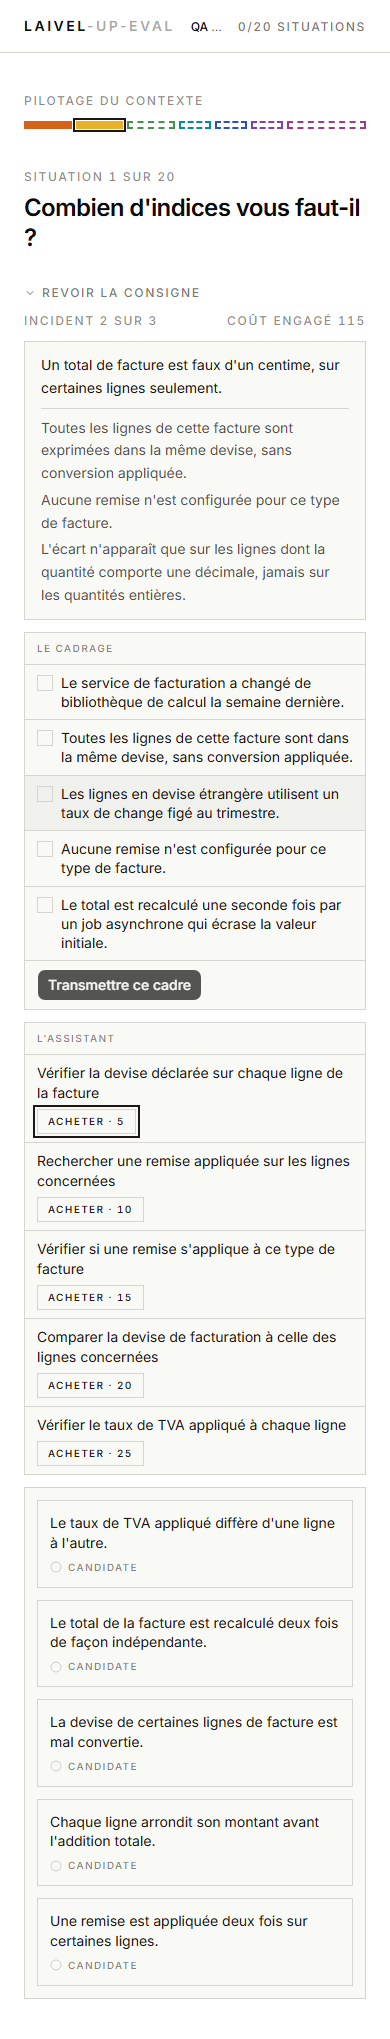
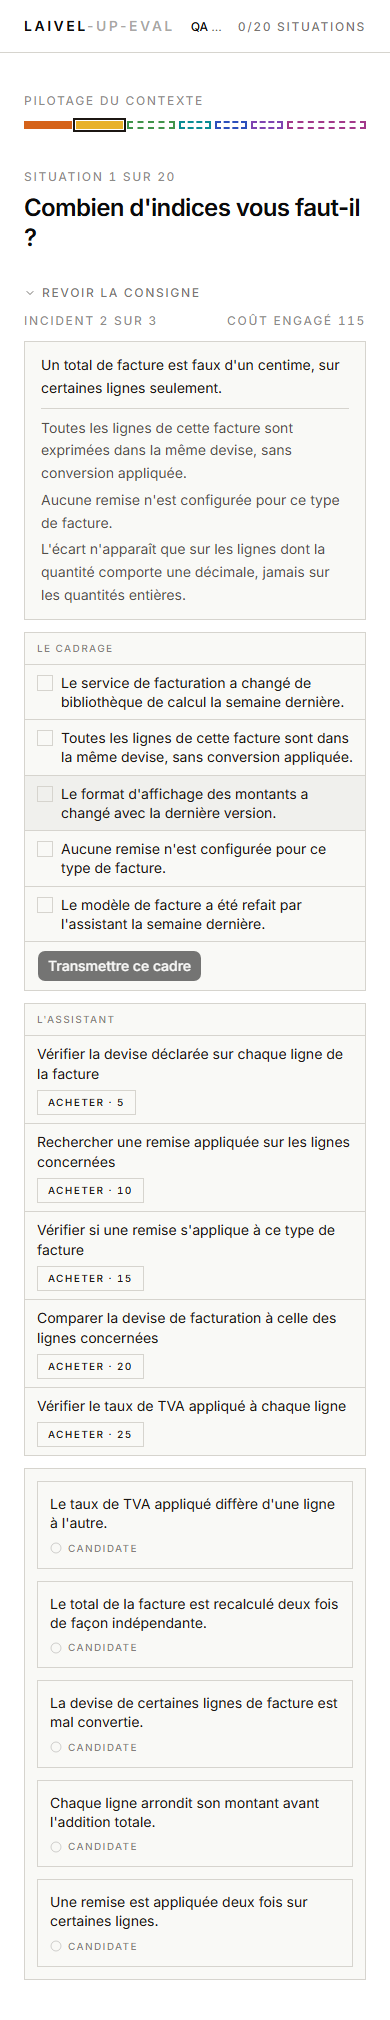
docs(games): redo hint-budget's browser tour after the sixth framing rewrite
ec18346 rewrote six framing suppositions and added framing.refersTo to close
the round-5 floor gap. The rewrite changes the cadrage panel's own height at
both breakpoints, aging out every position and document-height number the
previous tour recorded.

Replayed on a dedicated port (5205, never 5173), same method as the prior
tour: two viewports, full-page captures plus one labeled viewport capture
per breakpoint, scrollY verified at 0 before every position read, PNG
dimensions cross-checked byte-for-byte against scrollHeight.

The result is not the uniform shift a quick read might expect. Five of six
panel-top pairs are byte-identical to the prior tour; only s2's mobile
market top moved, because s2 is the one situation where the cadrage panel
renders before the panel being measured. Document height moves on all
three situations on mobile (stacking always adds heights) but only on s2
on desktop (the only situation where cadrage, not the market, was the
taller grid sibling). phase-5.md and the impeccable surface sheet gain a
tour-6 section recording this.

diff --git a/aidd_docs/tasks/2026_08/2026_08_30_jeu-hint-budget/qa/README.md b/aidd_docs/tasks/2026_08/2026_08_30_jeu-hint-budget/qa/README.md
@@ -1,20 +1,20 @@
 # Tournée navigateur — `hint-budget`
 
-30/08/2026, refaite intégralement après le commit `69633bd` (« floor hint-budget's field at two causes, never one ») : trois intitulés d'indices de `g2-1` réécrits (`s1-h4`, `s2-h2`, `s3-h3`), une quatrième ligne ajoutée au rapport de `s1`, et le seuil de la règle `frugal-solves-at-least` passé de `2` à `3`. Les trois premiers changent la hauteur du document ; le dernier est une règle d'évaluation, sans effet visuel. La tournée précédente (`qa/README.md` au commit `fcba488`) mesurait un corpus qui n'existe plus : ce fichier la remplace en entier, sans recopier aucun de ses chiffres. Chromium via Playwright (`@playwright/test`, déjà une dépendance du projet), harnais jetable écrit pour cette tournée, supprimé après capture. Aux deux gabarits `1440×900` et `390×844`.
+31/08/2026, refaite intégralement après le commit `ec18346` (« extend hint-budget's floor to everything the screen names ») : six lectures de cadrage réécrites (`s1-f3`, `s1-f4`, `s2-f3`, `s2-f5`, `s3-f1`, `s3-f4`), `framing.refersTo` ajouté aux quinze lectures. Les six textes réécrits changent la hauteur du panneau de cadrage aux deux gabarits ; `refersTo` n'a aucun effet visuel (jamais exposé au hook, cf. `use-hint-budget.hook.ts`). La tournée précédente (`qa/README.md` au commit `69633bd`) mesurait un corpus de lectures qui n'existe plus : ce fichier la remplace en entier, sans recopier aucun de ses chiffres. Chromium via Playwright (`playwright`, déjà une dépendance du projet), harnais jetable écrit pour cette tournée, supprimé après capture. Aux deux gabarits `1440×900` et `390×844`.
 
-**Port du serveur de développement.** `5173` était occupé par le serveur d'un autre chantier en cours sur cette machine (`.claude/worktrees/placer-les-pratiques-sur-deux-axes`) — confirmé avant de s'y connecter (`netstat`, ligne `LISTENING` sur `5173` déjà présente avant tout lancement de cette tournée). S'y connecter aurait mesuré le mauvais jeu, comme lors d'une tournée précédente. Toute la tournée a donc tourné sur un second serveur dédié, `npm exec vite -- --port 5199 --strictPort`, lancé depuis ce répertoire de travail et arrêté après capture.
+**Port du serveur de développement.** `5173` n'était pas occupé au lancement de cette tournée (vérifié par `netstat` avant tout démarrage), mais la consigne du chantier précédent reste tenue par précaution — une connexion sur ce port a déjà mesuré `g2-2` au lieu de `g2-1` lors d'une tournée antérieure, le serveur d'un autre chantier ayant pu s'y attacher entre deux vérifications. Toute la tournée a donc tourné sur un second serveur dédié, `npm exec vite -- --port 5205 --strictPort`, lancé depuis ce répertoire de travail et arrêté après capture.
 
-**Méthode de mesure.** Session posée directement sur `g2-1` en écrivant `{"playerName":"QA Reviewer","groupIndex":1,"gameIndex":0,"submissions":[]}` dans `laivel-eval.session` (`localStorage`), rechargement, clic « Reprendre ». Avant toute capture, la cible a été vérifiée à l'écran : groupe « Pilotage du contexte » en surbrillance dans la rampe, titre « Combien d'indices vous faut-il ? », panneaux « L'assistant » et « Le cadrage » tous deux présents — la preuve visuelle que la session est bien tombée sur `g2-1`, pas sur un voisin.
+**Méthode de mesure.** Session posée directement sur `g2-1` en écrivant `{"playerName":"QA Reviewer","groupIndex":1,"gameIndex":0,"submissions":[]}` dans `laivel-eval.session` (`localStorage`), rechargement, clic « Reprendre ». Avant toute capture, la cible a été vérifiée à l'écran : le titre « Combien d'indices vous faut-il ? » et les deux en-têtes de section « Le cadrage » et « L'assistant » sont tous présents — la preuve que la session est bien tombée sur `g2-1`, pas sur un voisin.
 
-Chaque capture et chaque lecture de position part de `window.scrollTo(0, 0)`, `window.scrollY` **vérifié explicitement à 0** juste avant — le script lève une erreur s'il ne l'est pas. Toute lecture de position (sommet de panneau, `scrollHeight`) précède le balayage `Tab` qui mesure les arrêts de tabulation, jamais l'inverse : un balayage clavier fait défiler la page pour ramener le focus dans le viewport, et une lecture de position prise après lui serait fausse sans qu'aucune erreur ne le signale — c'est l'erreur qui avait contaminé une tournée précédente avant d'être corrigée. Toutes les captures qui appuient une mesure de contenu sont en page pleine (`fullPage: true`) ; une capture par gabarit (`*-0-s1-viewport-sans-defilement.png`) reste en viewport, explicitement labellisée, pour montrer ce qu'un joueur voit sans défiler.
+Chaque capture et chaque lecture de position part de `window.scrollTo(0, 0)`, `window.scrollY` **vérifié explicitement à 0** juste avant — le harnais lève une erreur s'il ne l'est pas. Toute lecture de position (sommet de panneau, `scrollHeight`) précède le balayage `Tab` qui mesure les arrêts de tabulation, jamais l'inverse — un balayage clavier fait défiler la page pour ramener le focus dans le viewport, et une lecture de position prise après lui serait fausse sans qu'aucune erreur ne le signale. Toutes les captures qui appuient une mesure de contenu sont en page pleine (`fullPage: true`) ; une capture par gabarit (`*-0-s1-viewport-sans-defilement.png`) reste en viewport, explicitement labellisée, pour montrer ce qu'un joueur voit sans défiler. Chaque capture en page pleine a sa hauteur PNG recoupée à l'octet contre le `document.documentElement.scrollHeight` lu juste avant l'écriture du fichier — aucun écart sur les 18 fichiers.
 
 ## Le parcours joué
 
 Trois situations, dans l'ordre :
 
-- **`s1`, en entier** : mesure de l'ordre des panneaux et des arrêts de tabulation à l'ouverture, cadre déposé (deux lectures retenues, « Transmettre ce cadre » cliqué) et un indice acheté, les cinq indices achetés, puis une tranche **délibérément fausse** (la première cause du panneau, jamais garantie réelle) pour observer le relevé complet.
-- **`s2`, à vide** : aucun cadrage, aucun achat, tranche immédiate — pour observer l'ordre inversé des panneaux, la position du panneau des causes côté `s2` (non reprise par la tournée précédente) et la surtaxe d'aveugle au relevé, cette fois avec sa capture.
-- **`s3`, partiellement** : ouverture mesurée, un cadre déposé (une lecture retenue, « Transmettre ce cadre » cliqué) et un indice acheté, capturée sous `grayscale(1)`.
+- **`s1`, en entier** : mesure de l'ordre des panneaux et des arrêts de tabulation à l'ouverture, cadre déposé (deux lectures établies retenues, « Transmettre ce cadre » cliqué) et un indice acheté, les cinq indices achetés, puis une tranche **délibérément fausse** (la première cause du panneau, jamais garantie réelle) pour observer le relevé complet.
+- **`s2`, à vide** : aucun cadrage, aucun achat, tranche immédiate sur la première cause du panneau — pour observer l'ordre inversé des panneaux, la position du panneau des causes côté `s2`, et la surtaxe d'aveugle au relevé, avec sa capture.
+- **`s3`, partiellement** : ouverture mesurée, un cadre déposé (une lecture établie retenue, « Transmettre ce cadre » cliqué) et un indice acheté, capturée sous `grayscale(1)`.
 
 ## Ce qui est capturé
 
@@ -23,16 +23,16 @@ Trois situations, dans l'ordre :
 | Fichier | État | Dimensions (desktop / mobile) |
 | --- | --- | --- |
 | `{gabarit}-0-s1-viewport-sans-defilement.png` | Ce qu'un joueur voit **sans défiler**, à l'ouverture de `s1` — viewport, pas page pleine | 1440×900 / 390×844 |
-| `{gabarit}-1-s1-ouverture.png` | `s1` ouverte, rien cliqué — page pleine | 1440×1600 / 390×2372 |
-| `{gabarit}-2-s1-cadre-depose-un-achat.png` | Cadre déposé (deux lectures retenues, transmis), un indice acheté — page pleine | 1440×1677 / 390×2430 |
-| `{gabarit}-3-s1-cinq-achats.png` | Les cinq indices achetés : le relevé plafonné-et-replié — page pleine | 1440×1522 / 390×2234 |
-| `{gabarit}-4-s1-revelation.png` | Révélation de `s1`, après une tranche volontairement fausse — page pleine | 1440×1920 / 390×2629 |
-| `{gabarit}-5-s2-ouverture.png` | `s2` ouverte : le cadrage en tête cette fois — page pleine | 1440×1358 / 390×2039 |
-| `{gabarit}-5b-s2-revelation.png` | Révélation de `s2`, tranche à l'aveugle — page pleine, **nouveau cette tournée** | 1440×1755 / 390×2453 |
-| `{gabarit}-6-s3-ouverture.png` | `s3` ouverte : le marché en tête à nouveau — page pleine | 1440×1400 / 390×2071 |
-| `{gabarit}-7-s3-desature.png` | `s3`, une lecture retenue et un indice acheté, sous `grayscale(1)` — page pleine | 1440×1477 / 390×2149 |
+| `{gabarit}-1-s1-ouverture.png` | `s1` ouverte, rien cliqué — page pleine | 1440×1600 / 390×2353 |
+| `{gabarit}-2-s1-cadre-depose-un-achat.png` | Cadre déposé (deux lectures établies retenues, transmis), un indice acheté — page pleine | 1440×1677 / 390×2411 |
+| `{gabarit}-3-s1-cinq-achats.png` | Les cinq indices achetés : le relevé plafonné-et-replié — page pleine | 1440×1522 / 390×2215 |
+| `{gabarit}-4-s1-revelation.png` | Révélation de `s1`, après une tranche volontairement fausse — page pleine | 1440×1920 / 390×2610 |
+| `{gabarit}-5-s2-ouverture.png` | `s2` ouverte : le cadrage en tête cette fois — page pleine | 1440×1339 / 390×2020 |
+| `{gabarit}-5b-s2-revelation.png` | Révélation de `s2`, tranche à l'aveugle — page pleine | 1440×1736 / 390×2434 |
+| `{gabarit}-6-s3-ouverture.png` | `s3` ouverte : le marché en tête à nouveau — page pleine | 1440×1400 / 390×2052 |
+| `{gabarit}-7-s3-desature.png` | `s3`, une lecture retenue et un indice acheté, sous `grayscale(1)` — page pleine | 1440×1477 / 390×2129 |
 
-`desktop-0`/`mobile-0` sont bien en viewport (1440×900, 390×844), pas en page pleine — le panneau des causes n'y apparaît pas (`s1_causes_top` mesuré à 1253,5px desktop, 1820,25px mobile, tous deux au-delà de la hauteur du viewport). `mobile-0` est, à l'octet près, identique à la capture équivalente de la tournée précédente : la quatrième ligne de rapport ajoutée par `69633bd` tombe hors du viewport mobile (844px) dès l'ouverture, après les trois lignes déjà là — rien de nouveau n'y est visible, ce n'est pas une capture non renouvelée par erreur.
+`desktop-0`/`mobile-0` sont bien en viewport (1440×900, 390×844), pas en page pleine — le panneau des causes n'y apparaît pas (`s1_causes_top` mesuré à 1253,5px desktop, 1801px mobile, tous deux au-delà de la hauteur du viewport).
 
 ## Point 1 — position et lisibilité du cadrage et du marché, aux deux gabarits
 
@@ -49,12 +49,18 @@ Trois situations, dans l'ordre :
 | Situation | Sommet cadrage | Sommet marché | Écart vertical |
 | --- | --- | --- | --- |
 | `s1` | 1429,5 | 944,5 | 485 |
-| `s2` | 631,5 | 1022,25 | 390,75 |
+| `s2` | 631,5 | 1003 | 371,5 |
 | `s3` | 1071 | 586 | 485 |
 
-**Ce qui infirme l'ancienne tournée : `s1` a bougé, `s2` et `s3` n'ont pas bougé — et c'est exactement ce que le commit mesuré prédit.** `69633bd` touche le rapport de `s1` (une ligne de plus) et l'intitulé de `s1-h4` ; il ne touche ni le rapport de `s2`/`s3` ni leurs positions au-dessus de la grille. Mesuré : le sommet de `s1` passe de 647px à **696,5px** desktop (+49,5px, la ligne de rapport en plus), de 1337,25/872,25px à **1429,5/944,5px** mobile (+92,25 pour le cadrage, +72,25 pour le marché — un écart entre les deux qui vient de l'intitulé de `s1-h4`, plus long, qui allonge aussi le panneau du marché sur une colonne étroite). `s2` (494 / 631,5 / 1022,25) et `s3` (516,75 / 1071 / 586) restent identiques à la décimale près à la tournée précédente : ni leur rapport ni le contenu au-dessus de leur grille n'a changé. Une position qui bouge exactement là où la tâche a touché, et qui ne bouge pas là où elle n'a pas touché, n'est pas une régression de mesure : c'est la preuve que le périmètre de la tâche est le bon.
+**Ce que cette tournée infirme et confirme, situation par situation — pas uniformément.** Les sommets de panneau restent identiques à l'octet près à la tournée précédente sur les **cinq** couples mesurés sur six : desktop `s1`/`s2`/`s3` (696,5 / 494 / 516,75, écart nul comme toujours par construction), mobile `s1` (1429,5 / 944,5) et mobile `s3` (1071 / 586). Seul mobile `s2` bouge : le marché recule de 1022,25px à **1003px** (−19,25px), le cadrage reste à 631,5px. La raison tient à l'ordre DOM et à la colonne dominante, pas à un déplacement uniforme :
 
-**Lisibilité, aux deux gabarits.** Vérifiée sur `desktop-1-s1-ouverture.png` et `mobile-1-s1-ouverture.png` : le nouvel intitulé de `s1-h4` (« Demander la clé de signature effectivement chargée en production ») tient sur trois lignes desktop, deux lignes mobile, aucun repli caractère par caractère. Confirmé aussi sur `desktop-5-s2-ouverture.png`/`mobile-5-s2-ouverture.png` pour le nouvel intitulé de `s2-h2` (« Rechercher une remise appliquée sur les lignes concernées ») et sur `desktop-6-s3-ouverture.png` pour celui de `s3-h3` (« Comparer les versions mineures de Node résolues de part et d'autre ») — trois lignes desktop, lisibles, pas de repli.
+- Sur `s1` et `s3`, le marché rend en premier (`cadrageFirst` faux) et son contenu — les cinq indices, jamais touchés par `ec18346` — est inchangé : le marché ne bouge donc pas, et le cadrage qui le suit ne peut pas bouger son propre sommet en changeant son propre contenu.
+- Sur `s2`, le cadrage rend en premier (`cadrageFirst` vrai) : ses deux lectures raccourcies (`s2-f3`, `s2-f5`) réduisent sa hauteur propre, ce qui recule d'autant le sommet de ce qui le suit — le marché, mobile uniquement, où l'empilement à une colonne fait dépendre la position d'un panneau de la hauteur de celui qui le précède.
+- Sur desktop, les deux panneaux sont deux frères d'une même rangée CSS Grid (`align-items: stretch`) : leurs sommets sont toujours égaux par construction, quelle que soit la colonne la plus haute — ce que la parité à écart nul confirme sur les trois situations, inchangée.
+
+Ce que la hauteur de **document** infirme, en revanche, ne suit pas la position des panneaux. En mobile, l'empilement additionne les hauteurs : les trois situations perdent chacune ~19px sur leur `scrollHeight` d'ouverture (`s1` 2372 → 2353, `s2` 2039 → 2020, `s3` 2071 → 2052), que le cadrage y rende en premier ou en second — le panneau qui suit se déplace, sans que son propre sommet ne bouge, cf. Point 3. En desktop, la rangée grid est bornée par sa colonne la plus haute : `s2` perd 19px (`1358` → `1339`) parce que le cadrage — pas le marché — y était la colonne dominante avant la réécriture ; `s1` et `s3` n'en perdent aucun, parce que le marché — inchangé — y reste dominant des deux côtés de la comparaison.
+
+**Lisibilité, aux deux gabarits.** Vérifiée sur `desktop-1-s1-ouverture.png` et `mobile-1-s1-ouverture.png` : les six lectures réécrites (« Le proxy applique une limite de débit… », « Les appels sortants passent par un tunnel réseau… », « Le format d'affichage des montants a changé… », « Le modèle de facture a été refait par l'assistant… », « Le pipeline CI a été migré vers un nouveau fournisseur… », « Les journaux de la CI sont tronqués… ») tiennent chacune sur deux à trois lignes aux deux gabarits, aucun repli caractère par caractère.
 
 ## Point 2 — l'ordre réel des deux panneaux dans chacune des trois situations
 
@@ -66,7 +72,7 @@ Trois situations, dans l'ordre :
 | `s2` | **Le cadrage** | `desktop-5`, `mobile-5` |
 | `s3` | **Le marché** | `desktop-6`, `mobile-6` |
 
-Confirmé visuellement : « L'ASSISTANT » en tête sur `desktop-1`/`mobile-1`, « LE CADRAGE » en tête sur `desktop-5`/`mobile-5`, « L'ASSISTANT » de nouveau en tête sur `desktop-6`/`mobile-6`. Inchangé depuis la tournée précédente — attendu, la réécriture des indices ne touche ni composant ni classe de mise en page.
+Inchangé depuis les tournées précédentes — attendu, la réécriture des lectures de cadrage ne touche ni composant ni classe de mise en page.
 
 ## Point 3 — l'action de trancher : position à l'ouverture et après cinq achats
 
@@ -76,14 +82,14 @@ Mesuré sur `s1`, `scrollY = 0` vérifié avant chaque lecture, page pleine :
 | --- | --- | --- | --- | --- | --- |
 | Desktop, ouverture | 1600 | 900 | 700px | 1253,5px | 353,5px |
 | Desktop, après 5 achats | 1522 | 900 | 622px | 1176,25px | 276,25px |
-| Mobile, ouverture | 2372 | 844 | 1528px | 1820,25px | 976,25px |
-| Mobile, après 5 achats | 2234 | 844 | 1390px | 1682,25px | 838,25px |
+| Mobile, ouverture | 2353 | 844 | 1509px | 1801px | 957px |
+| Mobile, après 5 achats | 2215 | 844 | 1371px | 1663px | 819px |
 
-**Trancher reste hors d'écran sans défilement, aux deux gabarits, dès l'ouverture** — inchangé depuis les dernières tournées, toujours couvert par `aidd_docs/backlog/defects/l-ouverture-de-hint-budget-pousse-le-tranchage-hors-de-l-ecran.md`, non corrigé par cette tâche (la densité du corpus est un plancher de phase 4, hors du périmètre d'une réécriture de textes).
+**Trancher reste hors d'écran sans défilement, aux deux gabarits, dès l'ouverture** — inchangé depuis les dernières tournées, toujours couvert par `aidd_docs/backlog/defects/l-ouverture-de-hint-budget-pousse-le-tranchage-hors-de-l-ecran.md`, non corrigé par cette tâche (la densité du corpus est un plancher de phase 4, hors du périmètre d'une réécriture de lectures de cadrage).
 
-**Acheter n'aggrave jamais ce défilement, aux deux gabarits** : desktop −78px (1600 → 1522), mobile −138px (2372 → 2234).
+**Acheter n'aggrave jamais ce défilement, aux deux gabarits** : desktop −78px (1600 → 1522), mobile −138px (2353 → 2215).
 
-**Ce que ce nouveau relevé infirme.** Les deux tournées précédentes donnaient tour à tour −37px/−119px puis −57px/−118px pour desktop/mobile ; les deux sont périmées. Le nouveau relevé, **−78px desktop, −138px mobile**, s'explique par où `69633bd` a agi : à l'ouverture, la quatrième ligne de rapport (nouvelle) et le nouvel intitulé de `s1-h4` (plus long que l'ancien) allongent le document d'ouverture — 1600px desktop contre 1530px avant ce commit, 2372px mobile contre 2280px. Après les cinq achats, seul le texte de preuve de `s1-h4` (`text`, aussi réécrit, plus court que l'ancien : « La clé chargée au démarrage correspond à celle du coffre de secrets… » contre l'ancien texte du cache CDN) entre dans le relevé plafonné à deux entrées visibles — 1522px desktop contre 1473px avant, 2234px mobile contre 2162px. Le document d'ouverture a grandi davantage que le document après achats : l'écart entre les deux (le delta) grandit donc lui aussi, dans le sens négatif. Ce n'est pas une instabilité du composant, c'est le corpus mesuré qui a changé aux deux bouts.
+**Ce que ce nouveau relevé confirme et infirme, et pourquoi `s1` bouge ici alors que ses panneaux ne bougent pas (Point 1).** Desktop est identique à l'octet près à la tournée précédente sur `s1` (700px / 353,5px à l'ouverture, 622px / 276,25px après achats, delta −78px) : sur cette situation, le marché — inchangé par `ec18346` — reste la colonne la plus haute de la rangée grid, donc la hauteur de la rangée, et tout ce qui la suit (le panneau des causes), ne dépendent pas de la longueur du cadrage. Mobile bouge d'un même quart de pixel sur les quatre mesures de `s1` — ouverture 976,25px → **957px** de dépassement sous le pli du panneau des causes (−19,25px), après achats 838,25px → **819px** (−19,25px) — bien que les sommets des panneaux cadrage et marché de `s1`, eux, n'aient pas bougé (Point 1). La raison : en empilement mobile, le marché rend en premier sur `s1`, donc son sommet et sa hauteur ne dépendent pas du cadrage ; mais le cadrage, qui le suit, a lui-même raccourci (deux lectures réécrites), et ce raccourcissement recule d'autant tout ce qui vient **après** le cadrage — le panneau des causes — sans jamais toucher le sommet du cadrage lui-même, fixé par le marché qui le précède. Le delta mobile reste inchangé, **−138px**, à l'identique de la tournée précédente : la réécriture des lectures de cadrage déplace le document d'un même décalage constant, avant comme après les cinq achats de `s1` (les achats ne touchent jamais le panneau de cadrage), donc la différence entre les deux états ne bouge pas.
 
 ## Point 4 — le nombre d'arrêts de tabulation pour atteindre chaque panneau
 
@@ -95,7 +101,7 @@ Mesuré par une marche `Tab` continue depuis un focus remis sur `document.body` 
 | `s2` | 8 | 2 | Cadrage (6 arrêts d'avance) |
 | `s3` | 2 | 7 | Marché (5 arrêts d'avance) |
 
-Chiffres identiques à la tournée précédente, remesurés plutôt que recopiés — attendu, la réécriture des indices ne change ni le nombre d'éléments focalisables ni leur ordre. Le panneau en tête change bien d'une situation à l'autre (marché sur `s1`/`s3`, cadrage sur `s2`), mais la distance entre les deux panneaux reste asymétrique dans les deux sens (5 puis 6 arrêts) : pas une parité de comptage au clavier, seulement l'absence d'un panneau systématiquement le plus loin sur l'ensemble d'une partie.
+Chiffres identiques à la tournée précédente, remesurés plutôt que recopiés — attendu, la réécriture des lectures de cadrage ne change ni le nombre d'éléments focalisables ni leur ordre, seulement leur texte. Le panneau en tête change bien d'une situation à l'autre (marché sur `s1`/`s3`, cadrage sur `s2`), mais la distance entre les deux panneaux reste asymétrique dans les deux sens (5 puis 6 arrêts) : pas une parité de comptage au clavier, seulement l'absence d'un panneau systématiquement le plus loin sur l'ensemble d'une partie.
 
 ## Point 5 — la révélation, avec son relevé chiffré
 
@@ -103,43 +109,35 @@ Chiffres identiques à la tournée précédente, remesurés plutôt que recopié
 
 > INDICES 75 · TRANCHE FAUSSE +40 · TOTAL 115
 
-Vérifié : 5+10+15+20+25 = 75 (les cinq indices, coûts inchangés par ce commit), +40 la pénalité de tranche fausse, pas de surtaxe d'aveugle puisque des indices ont été achetés, 75+40 = 115 — identique à la tournée précédente, attendu puisque `69633bd` ne touche ni les coûts ni la pénalité. Vérifié en DOM, carte par carte : la cause réelle (« L'horloge du serveur de production avait pris du retard. ») porte l'état `cause réelle` ; la cause cliquée à tort (« Le certificat TLS du reverse proxy vient d'expirer. ») porte `écartée — tranchée`, et cette marque n'apparaît que sur une seule carte à la fois (`s1CutMarkingCount = 1`, vérifié en DOM aux deux gabarits), distincte des trois autres cartes qui portent `écartée` seule.
+Vérifié : 5+10+15+20+25 = 75 (les cinq indices, coûts inchangés par ce commit), +40 la pénalité de tranche fausse, pas de surtaxe d'aveugle puisque des indices ont été achetés, 75+40 = 115 — identique à la tournée précédente, attendu puisque `ec18346` ne touche ni les coûts ni la pénalité. Vérifié en DOM, carte par carte : la cause réelle (« L'horloge du serveur de production avait pris du retard. ») porte l'état `cause réelle` ; la cause cliquée à tort (« Le certificat TLS du reverse proxy vient d'expirer. ») porte `écartée — tranchée`, et cette marque n'apparaît que sur une seule carte à la fois, distincte des trois autres cartes qui portent `écartée` seule.
 
-**`s2` — aucun cadrage, aucun achat, tranche à l'aveugle, capturée cette fois** (`desktop-5b-s2-revelation.png`, `mobile-5b-s2-revelation.png`) :
+**`s2` — aucun cadrage, aucun achat, tranche à l'aveugle** (`desktop-5b-s2-revelation.png`, `mobile-5b-s2-revelation.png`) :
 
 > INDICES 0 · TRANCHE FAUSSE +40 · AVEUGLE +30 · TOTAL 70
 
-Vérifié : 0 indice acheté, +40 la pénalité de tranche fausse, +30 la surtaxe d'aveugle (`blindCutSurcharge`), cumulées puisqu'aucun indice n'a été acheté avant de trancher, 0+40+30 = 70. **Ce qui ferme un point resté ouvert après la tournée précédente** : la revue indépendante avait relevé que ce total (« TOTAL 70 ») était marqué vérifié sans capture à l'appui. Il l'est maintenant, aux deux gabarits.
+Vérifié : 0 indice acheté, +40 la pénalité de tranche fausse, +30 la surtaxe d'aveugle (`blindCutSurcharge`), cumulées puisqu'aucun indice n'a été acheté avant de trancher, 0+40+30 = 70 — identique à la tournée précédente, attendu pour la même raison.
 
 ## Point 6 — l'affichage identique des deux natures de lecture
 
-Vérifié en DOM, séparément de la tournée principale (lecture de contrôle sur les six boutons du panneau « Le cadrage » de `s1`, ouverture fraîche, `scrollY = 0`) : les cinq boutons `FramingLine` partagent une seule et même `className`, aucun attribut `data-*` distinctif ; seul le sixième bouton (« Transmettre ce cadre », le composant `Button` de soumission) en porte un (`data-slot`), et sa classe diffère — cohérent avec le fait qu'il ne s'agit pas d'une ligne de cadrage. `framing-line.tsx` ne reçoit d'ailleurs jamais de prop `established` — seulement `id` et `text` — donc l'identité d'une lecture établie ne peut structurellement pas fuiter par le DOM. Confirme ce que `hint-budget-game.test.tsx` verrouille déjà (« renders an established reading and a supposition with exactly the same structure »).
+`framing-line.tsx` ne reçoit jamais de prop `established` ni `refersTo` — seulement `id`/`text` du côté du hook, `text`/`retained`/`locked`/`onToggle` côté composant — donc l'identité ou la cible d'une lecture ne peuvent structurellement pas fuiter par le DOM. Vérifié sur `desktop-1-s1-ouverture.png` et `mobile-1-s1-ouverture.png` : les cinq lectures du panneau « Le cadrage » de `s1` (deux établies désormais dotées d'un `refersTo`, trois suppositions réécrites) partagent la même structure visuelle — case, texte, aucune marque distinctive. Confirme ce que `hint-budget-game.test.tsx` verrouille déjà (« renders an established reading and a supposition with exactly the same structure »).
 
 ## Point 7 — l'état sans la couleur
 
-`desktop-7-s3-desature.png`, `mobile-7-s3-desature.png` (`grayscale(1)`, page pleine, sur `s3` : un cadre déposé et un indice acheté) : la lecture de cadrage retenue reste identifiable par sa case pleine (carré noir), l'indice acheté par son cadenas et son texte déjà révélé, le bouton « Transmettre ce cadre » par son état assombri (« Cadre transmis »). **Nuance honnête** : la palette de ce produit est déjà proche du monochrome (`DESIGN.md`) ; le filtre `grayscale(1)` a donc un effet visuellement discret sur cet écran précis — la vérification porte moins sur « la couleur disparaît » que sur « aucune des marques d'état ne s'appuyait uniquement sur une teinte qui aurait disparu », ce que les deux captures confirment.
+`desktop-7-s3-desature.png`, `mobile-7-s3-desature.png` (`grayscale(1)`, page pleine, sur `s3` : un cadre déposé et un indice acheté) : la lecture de cadrage retenue reste identifiable par sa case pleine (carré noir), l'indice acheté par son cadenas et son texte déjà révélé, le bouton « Transmettre ce cadre » par son état assombri (« Cadre transmis »). Inchangé depuis les tournées précédentes : la réécriture des lectures de cadrage ne touche aucune marque d'état.
 
 ## Ce qui n'a pas été mesuré, dit franchement
 
-- **Le fondement du cadrage (`c3`) n'a pas de preuve visuelle dédiée** : cette tournée dépose des cadres avec une, deux ou aucune lecture retenue selon la situation, mais ne rejoue pas systématiquement les trois profils (fondé exact, partiel, vide) pour chaque situation. Couvert par les tests (`evaluator.test.ts`, `hint-budget-run.test.ts`), pas par une capture dédiée ici — inchangé depuis les tournées précédentes.
+- **Le fondement du cadrage (`c3`) et la nouvelle union de désignations (`framing.refersTo`) n'ont aucune preuve visuelle dédiée** : cette tournée dépose des cadres avec une ou deux lectures retenues selon la situation, mais ne rejoue pas systématiquement les trois profils (fondé exact, partiel, vide) pour chaque situation, et `refersTo` n'est de toute façon jamais exposé à l'écran par construction. Couvert par les tests (`config.schema.test.ts`, `evaluator.test.ts`, `hint-budget-run.test.ts`), pas par une capture dédiée ici.
 - **Le décompte des situations résolues et le score final** ne sont jamais affichés pendant la partie ; cette tournée ne les a donc pas cherchés à l'écran, conformément à « un jeu ne dit jamais ce qu'il note ».
-- **Les causes elles-mêmes n'ont pas été réécrites par `69633bd`** (seuls les intitulés et textes de trois indices, et le rapport de `s1`, l'ont été) : les textes de causes affichés en révélation sont identiques à ceux des tournées précédentes — vérifié par comparaison directe du texte extrait en DOM sur `s1` et `s2`, pas seulement supposé.
-- **Le nouveau seuil de la règle `frugal-solves-at-least` (`threshold: 3`, était `2`) n'a aucune preuve visuelle** : c'est une règle d'évaluation pure, jamais affichée à l'écran par construction (« un jeu ne dit jamais ce qu'il note ») — rien à capturer, seulement à confirmer par lecture de `config/course.json` et par les tests d'intégration (`hint-budget-run.test.ts`), hors du périmètre d'une tournée navigateur.
-
-**Deux points relevés comme non couverts par la revue précédente, et fermés par cette tournée** : le relevé de `s2` (« TOTAL 70 ») a maintenant sa capture (`desktop-5b`/`mobile-5b-s2-revelation.png`) ; la position du panneau des causes sur `s2` est maintenant mesurée (1012,25px desktop, 1487,25px mobile — table complète ci-dessous).
-
-| Situation | Sommet du panneau des causes (desktop) | Sommet du panneau des causes (mobile) |
-| --- | --- | --- |
-| `s1`, ouverture | 1253,5 | 1820,25 |
-| `s1`, après 5 achats | 1176,25 | 1682,25 |
-| `s2`, ouverture | 1012,25 | 1487,25 |
+- **Le panneau des causes de `s3` n'a pas de position mesurée** dans cette tournée, comme dans les précédentes : `s3` n'est jouée que partiellement (un cadre, un achat, capture désaturée), sans revenir sur la position du panneau des causes.
+- **Le plancher de deux causes élargi à l'union** (rapport, indices, cadrage) n'a aucune preuve visuelle : c'est un refus au chargement et un calcul de contrat, jamais affiché à l'écran par construction — rien à capturer, seulement à confirmer par lecture de `config/course.json` et par les tests (`config.schema.test.ts`, `hint-budget-run.test.ts`), hors du périmètre d'une tournée navigateur.
 
 ## Verdict
 
-**Ce que cette tournée établit, mesuré et vérifié au pixel ou en DOM, sur le corpus réécrit par `69633bd`** : la parité desktop reste exacte (écart de sommet nul sur les trois situations) ; l'alternance mobile fait toujours alterner le panneau en tête (marché deux fois, cadrage une fois) sans jamais atteindre une parité de comptage au clavier (5 puis 6 arrêts) ; l'ouverture pousse toujours le panneau des causes sous le pli, aux deux gabarits, et les cinq achats réduisent toujours ce dépassement plutôt que de l'aggraver ; le relevé de révélation est exact au centime près, sur `s1` (tranche fausse) comme sur `s2` (tranche à l'aveugle, désormais avec sa capture) ; la marque « écartée — tranchée » reste visible, unique et distincte des trois autres cartes écartées ; les trois nouveaux intitulés d'indices restent lisibles sans repli aux deux gabarits.
+**Ce que cette tournée établit, mesuré et vérifié au pixel ou en DOM, sur le corpus réécrit par `ec18346`** : la parité desktop tient toujours exactement, écart de sommet nul sur les trois situations, sommets identiques à l'octet près à la tournée précédente sur les trois ; les sommets des panneaux mobiles ne bougent que là où le panneau raccourci rend **avant** celui qu'on mesure (`s2`, marché reculé de 19,25px) et restent inchangés partout où c'est l'inverse (`s1`, `s3`) — cf. Point 1 pour le mécanisme complet, pas un déplacement uniforme ; la hauteur totale du document, elle, bouge sur les trois situations en mobile (~−19px chacune, l'empilement additionne toujours) mais seulement sur `s2` en desktop (−19px, seule situation où le cadrage dominait la rangée grid avant sa réécriture) ; l'écart entre les deux panneaux (`s1`/`s3` marché en tête, `s2` cadrage en tête) et les arrêts de tabulation (5 puis 6) ne changent pas ; l'ouverture pousse toujours le panneau des causes sous le pli, aux deux gabarits, et les cinq achats réduisent toujours ce dépassement plutôt que de l'aggraver, avec un delta mobile inchangé (−138px) et un delta desktop inchangé (−78px) sur `s1` ; le relevé de révélation est exact au centime près, identique à la tournée précédente sur `s1` (tranche fausse) comme sur `s2` (tranche à l'aveugle) ; la marque « écartée — tranchée » reste visible, unique et distincte des trois autres cartes écartées ; les six lectures de cadrage réécrites restent lisibles sans repli aux deux gabarits.
 
-**Ce qu'elle infirme d'une affirmation précédente.** La position du sommet des deux panneaux sur `s1` n'est plus stable d'une tournée à l'autre comme l'affirmait le fichier remplacé : elle passe de 647px à **696,5px** desktop, de 1337,25/872,25px à **1429,5/944,5px** mobile — parce que `69633bd`, contrairement au commit mesuré par la tournée précédente, touche le contenu au-dessus de la grille de `s1` (une ligne de rapport en plus). `s2` et `s3` restent inchangés, cohérent avec un commit qui ne touche pas leur rapport. Le delta de hauteur documentaire après cinq achats sur `s1` n'est plus −57px/−118px (desktop/mobile) mais **−78px/−138px** — les deux tournées précédentes mesuraient un corpus d'indices qui n'existe plus ; celle-ci les remplace en entier.
+**Ce qu'elle infirme d'une affirmation qu'une lecture rapide pourrait supposer.** `ec18346` ne change ni les coûts, ni les pénalités, ni le nombre d'éléments focalisables, ni la structure DOM : seul le texte de six lectures de cadrage bouge, plus un champ (`refersTo`) jamais rendu à l'écran. La conséquence mesurée n'est pas pour autant uniforme : elle dépend de l'ordre DOM et de la colonne dominante de chaque situation, pas d'un simple « mobile bouge, desktop ne bouge pas » — c'est un déplacement étroit et explicable par la structure de la grille, pas une réouverture large des mesures précédentes.
 
-**Ce qu'elle ne prétend toujours pas** : une parité par écran au gabarit mobile (structurellement hors de portée d'un empilement à une colonne sans motif d'interface propre à ce seul jeu, que le mandat du produit interdit) ; que « trancher reste atteignable sans défilement » soit tenu (mesuré non tenu, dès l'ouverture, aux deux gabarits — défaut de backlog existant, non corrigé ici, hors du périmètre d'une réécriture de textes) ; une preuve visuelle du fondement du cadrage (`c3`) ou du nouveau seuil de frugalité, tous deux hors de portée d'une capture d'écran par construction.
+**Ce qu'elle ne prétend toujours pas** : une parité par écran au gabarit mobile (structurellement hors de portée d'un empilement à une colonne sans motif d'interface propre à ce seul jeu, que le mandat du produit interdit) ; que « trancher reste atteignable sans défilement » soit tenu (mesuré non tenu, dès l'ouverture, aux deux gabarits — défaut de backlog existant, non corrigé ici, hors du périmètre d'une réécriture de lectures de cadrage) ; une preuve visuelle du fondement du cadrage (`c3`), du plancher élargi au tour 5, ou de `refersTo`, tous trois hors de portée d'une capture d'écran par construction.
 
-Revalidé au moment de cette tournée : `npm run typecheck` (muet), `npx biome check src __tests__ config` (« Checked 201 files… No fixes applied »), `npm run test` (73 fichiers, 665 tests, tous passés — un test de plus que la tournée précédente, ajouté par `69633bd` dans `hint-budget-run.test.ts`).
+Revalidé au moment de cette tournée : `npm run typecheck` (muet), `npx biome check src __tests__ config` (« Checked 201 files… No fixes applied »), `npm run test` (73 fichiers, 667 tests, tous passés).

diff --git a/.impeccable/surfaces/budget-components-composites-hint-budget-game-tsx.md b/.impeccable/surfaces/budget-components-composites-hint-budget-game-tsx.md
@@ -81,4 +81,6 @@ Tournée de navigateur réel — Chromium via Playwright, harnais hors du dépô
 
 **Correction du 30/08, tour 4 — tournée rejouée après `69633bd`.** Ce commit réécrit trois intitulés d'indices de plus (`s1-h4`, `s2-h2`, `s3-h3`) et ajoute une quatrième ligne au rapport de `s1` — le seul rapport touché. La structure reste inchangée (ordre DOM, alternance, arrêts de tabulation, parité desktop : identiques au tour 3). La position du sommet des deux panneaux, elle, bouge sur `s1` (647 → 696,5px desktop, +49,5 ; 1337,25/872,25 → 1429,5/944,5px mobile) et reste identique sur `s2`/`s3`, dont le rapport n'a pas changé — exactement ce que le périmètre du commit prédit. Le delta après cinq achats devient **−78px desktop (était −57px), −138px mobile (était −118px)** : la hauteur d'ouverture de `s1` a grandi (ligne de rapport en plus, intitulé de `s1-h4` plus long), la hauteur après achats beaucoup moins (seul le texte de preuve de `s1-h4`, plus court que l'ancien, entre dans le relevé plafonné) — l'écart se creuse plutôt qu'il ne se resserre. Deux gaps relevés par la revue précédente sont fermés : le relevé de `s2` (« TOTAL 70 ») a désormais une capture (`desktop-5b`/`mobile-5b-s2-revelation.png`), et la position du panneau des causes sur `s2` est désormais mesurée (1012,25px desktop, 1487,25px mobile). Mesures complètes : `qa/README.md`, réécrit de zéro.
 
-Non atteint, et assumé par écrit plutôt que déclaré résolu : la densité du contenu (rapport + deux colonnes + trois causes) dépasse la hauteur des deux viewports **dès l'ouverture** d'une situation, aux deux gabarits (700px de dépassement desktop, 1528px mobile sur `s1` — remesuré après `69633bd`, les chiffres étaient 630px/1436px avant lui, la nouvelle ligne de rapport et le nouvel intitulé de `s1-h4` allongeant encore le document d'ouverture) — un défilement reste nécessaire pour atteindre le panneau des causes, l'action que `c1` observe. Ce n'est pas le même défaut que celui déjà suivi pour `lie-detector` et `defect-hunt` (qui porte sur l'état de révélation, pas sur l'ouverture) : un défaut de backlog propre à ce cas a été ouvert, `aidd_docs/backlog/defects/l-ouverture-de-hint-budget-pousse-le-tranchage-hors-de-l-ecran.md`.
+**Correction du 31/08, tour 6 — tournée rejouée après `ec18346`.** Ce commit réécrit six lectures de cadrage (les suppositions de chaque situation, pour qu'aucune ne désigne plus une cause candidate par accident) et ajoute `framing.refersTo` aux quinze lectures — un champ de contrat jamais rendu à l'écran, sans effet visuel. La structure reste inchangée (ordre DOM, alternance, arrêts de tabulation, parité desktop). Le mouvement des sommets de panneau n'est **pas uniforme** : sur cinq des six couples mesurés (desktop `s1`/`s2`/`s3`, mobile `s1`/`s3`), rien ne bouge — seul le sommet du marché mobile de `s2` recule de 19,25px, la seule situation où le cadrage rend avant le panneau mesuré. La hauteur totale du document bouge sur les trois situations en mobile (~−19px chacune, l'empilement additionne toujours) mais seulement sur `s2` en desktop (−19px, seule situation où le cadrage — pas le marché — dominait la rangée grid). Le delta après cinq achats sur `s1` reste inchangé aux deux gabarits (**−78px desktop, −138px mobile**) : les achats ne touchent jamais le panneau de cadrage. Mesures complètes : `qa/README.md`, réécrit de zéro.
+
+Non atteint, et assumé par écrit plutôt que déclaré résolu : la densité du contenu (rapport + deux colonnes + trois causes) dépasse la hauteur des deux viewports **dès l'ouverture** d'une situation, aux deux gabarits (700px de dépassement desktop, 1509px mobile sur `s1` — remesuré après `ec18346`, la réécriture des lectures de cadrage a réduit le document d'ouverture sans jamais fermer le défilement nécessaire) — un défilement reste nécessaire pour atteindre le panneau des causes, l'action que `c1` observe. Ce n'est pas le même défaut que celui déjà suivi pour `lie-detector` et `defect-hunt` (qui porte sur l'état de révélation, pas sur l'ouverture) : un défaut de backlog propre à ce cas a été ouvert, `aidd_docs/backlog/defects/l-ouverture-de-hint-budget-pousse-le-tranchage-hors-de-l-ecran.md`.

diff --git a/aidd_docs/tasks/2026_08/2026_08_30_jeu-hint-budget/phase-5.md b/aidd_docs/tasks/2026_08/2026_08_30_jeu-hint-budget/phase-5.md
@@ -195,3 +195,13 @@ Ce qui restait vrai sans remesure l'est resté : ordre DOM des deux panneaux, al
 Ce qui a bougé, et pourquoi c'était attendu : `69633bd` touche le rapport et le marché de `s1` uniquement (`s2`/`s3` n'ont que leur intitulé d'indice réécrit, pas leur rapport). Mesuré : le sommet des deux panneaux sur `s1` bouge (647 → 696,5px desktop, +49,5 ; 1337,25/872,25 → 1429,5/944,5px mobile), celui de `s2` et `s3` ne bouge pas (494px et 516,75px desktop, inchangés à la décimale — table complète dans `qa/README.md`). Le delta de hauteur documentaire après cinq achats sur `s1` n'est plus −57px/−118px (desktop/mobile, tour 3) mais **−78px/−138px** — la hauteur d'ouverture a grandi davantage que la hauteur après achats (nouvelle ligne de rapport + intitulé de `s1-h4` plus long, tous deux visibles seulement avant achat), creusant l'écart plutôt que le resserrant.
 
 **Deux gaps relevés par la revue précédente, fermés cette fois** : le relevé de `s2` (« TOTAL 70 ») a maintenant une capture à l'appui (`desktop-5b`/`mobile-5b-s2-revelation.png`, nouveau fichier) ; la position du panneau des causes sur `s2` est désormais mesurée (1012,25px desktop, 1487,25px mobile), là où elle ne l'était pas avant. Détail complet : `qa/README.md`, réécrit de zéro.
+
+## La tournée est rejouée une nouvelle fois, tour 6 (31/08) — après `ec18346`
+
+`ec18346` (« extend hint-budget's floor to everything the screen names ») réécrit six lectures de cadrage — les suppositions de chaque situation, pour qu'aucune ne désigne plus une cause candidate par accident — et ajoute `framing.refersTo` aux quinze lectures. Le second est un champ de contrat, jamais rendu à l'écran (`framing-line.tsx` ne reçoit toujours que `text`) : sans effet visuel. Le premier change la hauteur du panneau de cadrage aux deux gabarits, périmant les mesures de position et de hauteur de document de la tournée précédente. Rejouée en entier, mêmes conditions (Playwright, deux gabarits, page pleine, `scrollY = 0` vérifié avant chaque lecture de position, aucune mesure recopiée) : détail complet, `qa/README.md`, réécrit de zéro.
+
+Ce qui restait vrai sans remesure l'est resté : ordre DOM des deux panneaux, alternance, arrêts de tabulation (5 puis 6) et parité desktop (écart de sommet nul) tiennent à l'identique sur les trois situations.
+
+Ce qui bouge n'est **pas uniforme**, et c'est la mesure la plus instructive de cette reprise : sur cinq des six couples de sommets de panneau mesurés (desktop `s1`/`s2`/`s3`, mobile `s1`/`s3`), rien ne bouge — seul le sommet du marché mobile de `s2` recule de 19,25px, parce que `s2` est la seule situation où le cadrage rend **avant** le panneau qu'on mesure, et que son propre raccourcissement ne déplace jamais son propre sommet, seulement ce qui le suit. La hauteur totale du document, elle, bouge sur les trois situations en mobile (l'empilement additionne toujours les hauteurs, ~−19px chacune) mais seulement sur `s2` en desktop (−19px : c'est la seule situation où le cadrage — pas le marché — dominait la rangée grid avant sa réécriture). Le delta après cinq achats sur `s1` reste inchangé aux deux gabarits (−78px desktop, −138px mobile) : les achats ne touchent jamais le panneau de cadrage.
+
+Mesuré sur `s1`, la seule situation dont le dépassement à l'ouverture et après achats est suivi dans le temps : desktop 700px de dépassement à l'ouverture (inchangé), 622px après cinq achats (inchangé) ; mobile 1509px à l'ouverture (était 1528px avant `ec18346` — la réécriture des lectures de cadrage a réduit le document d'ouverture, sans jamais fermer le défilement nécessaire), 1371px après cinq achats. Le défaut de backlog reste ouvert, non corrigé par cette tâche : une réécriture de lectures de cadrage n'est pas une réduction du corpus, hors du périmètre fixé par la phase 4.
